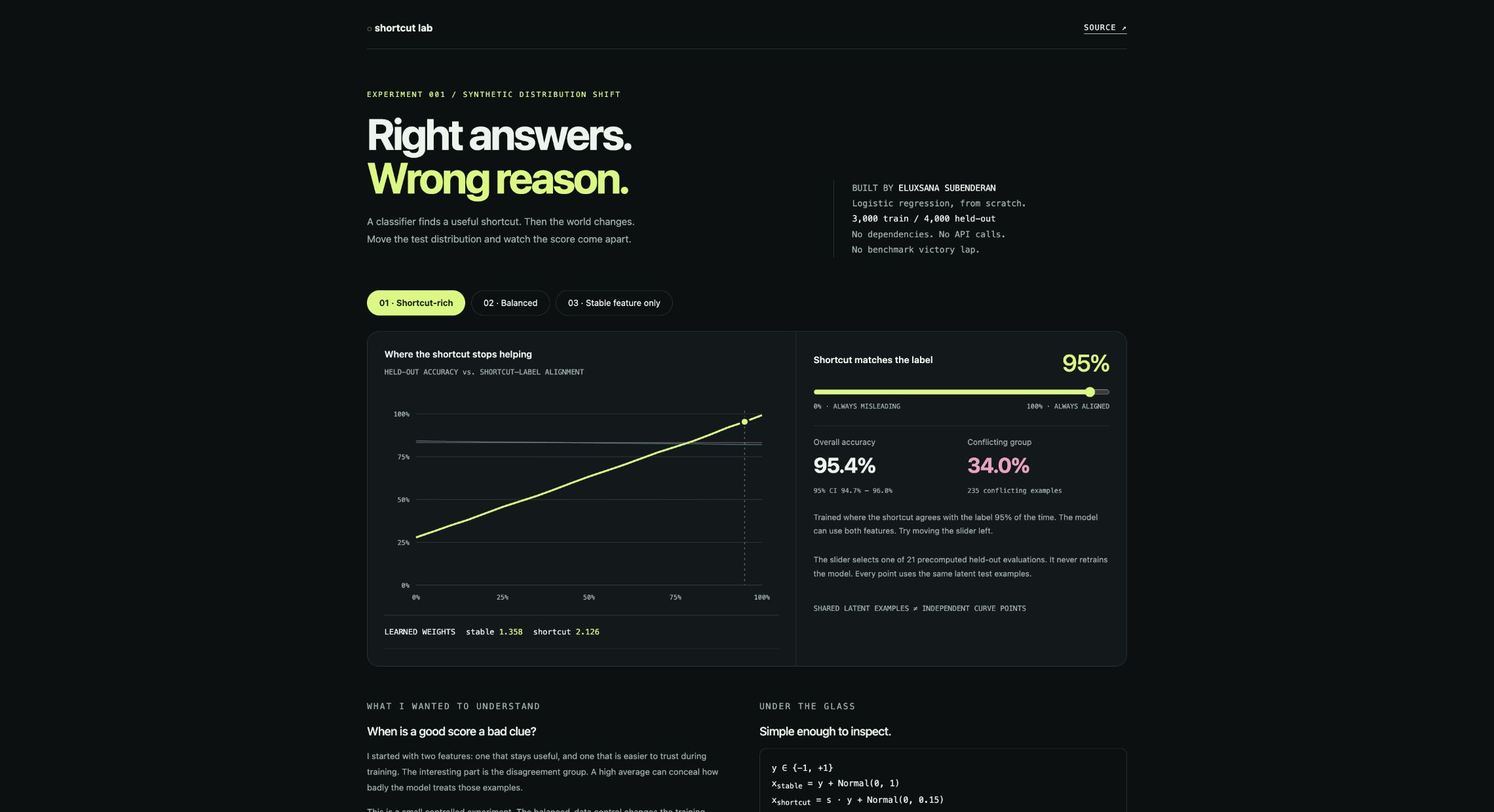
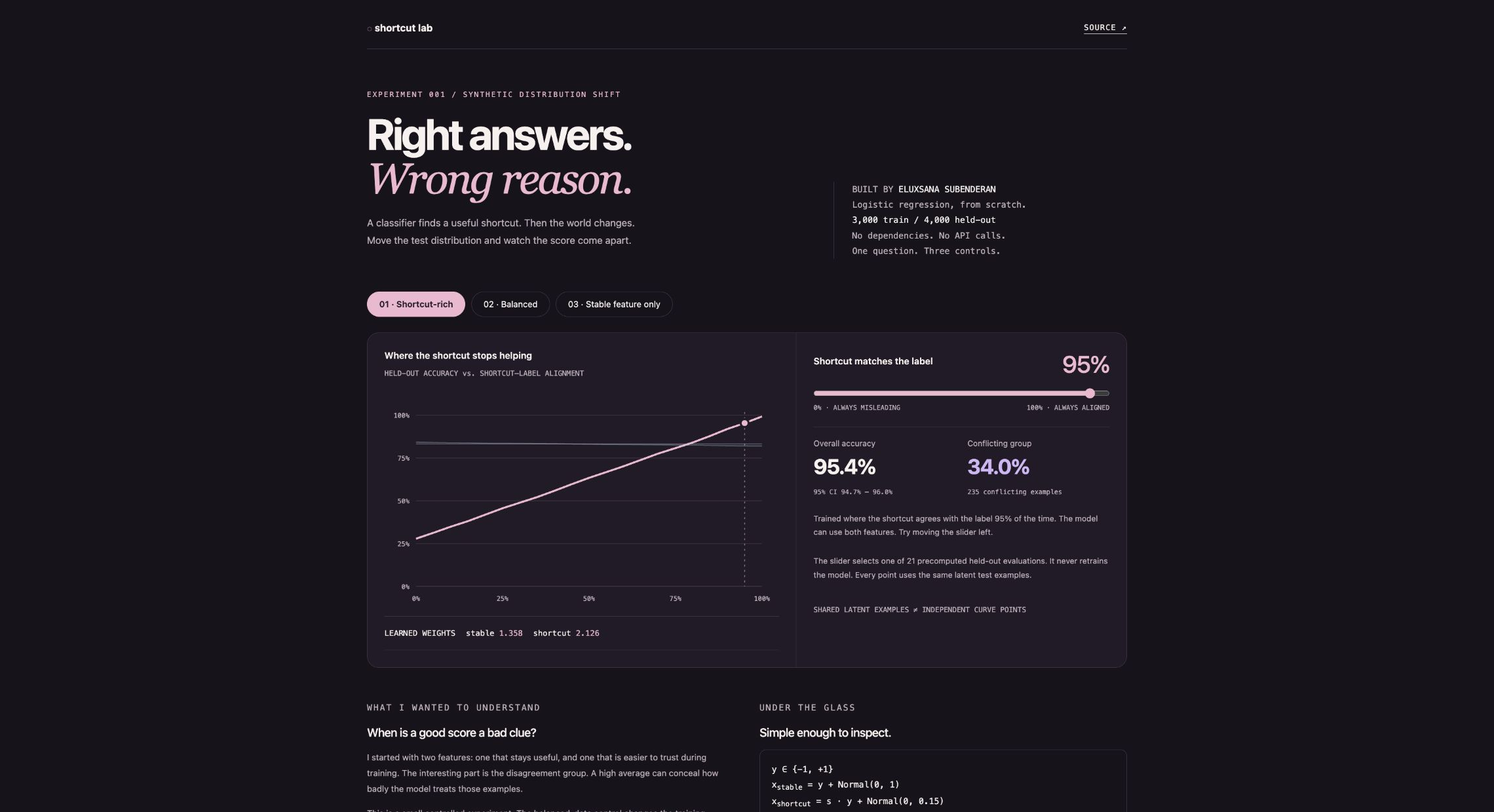
Refine the lab with plum, rose and mint accents

diff --git a/report.html b/report.html
@@ -2,13 +2,13 @@
 <html lang="en"><head><meta charset="utf-8"><meta name="viewport" content="width=device-width,initial-scale=1">
 <meta name="color-scheme" content="dark light"><title>Shortcut Lab · Eluxsana</title>
 <style>
-:root{--bg:#0b1011;--panel:#11191b;--text:#ecf3ed;--muted:#9eb1aa;--line:#2b3b37;--acid:#d3f970;--pink:#f6a0c2;--cyan:#76d8df;font-family:system-ui,-apple-system,sans-serif;color-scheme:dark;background:var(--bg);color:var(--text)}
-*{box-sizing:border-box}body{margin:0}main{max-width:1240px;margin:auto;padding:32px 40px 60px}nav{display:flex;justify-content:space-between;align-items:center;border-bottom:1px solid var(--line);padding-bottom:22px}a{color:inherit;text-underline-offset:5px}nav a,.mono{font:12px/1.6 ui-monospace,monospace;letter-spacing:1px}.brand{font-size:15px;font-weight:700}.brand b{color:var(--acid)}.hero{display:grid;grid-template-columns:1.5fr 1fr;gap:40px;padding:52px 0 38px;align-items:end}.eyebrow{font:11px ui-monospace,monospace;letter-spacing:2px;color:var(--acid);text-transform:uppercase}h1{font-size:clamp(36px,5.4vw,66px);line-height:1.02;letter-spacing:-3px;margin:20px 0}h1 em{font-style:normal;color:var(--acid)}.intro{max-width:560px;color:var(--muted);font-size:15px;line-height:1.75}.aside{border-left:1px solid var(--line);padding-left:28px;font:13px/1.8 ui-monospace,monospace;color:var(--muted)}.aside span{color:var(--text)}.toolbar{display:flex;gap:9px;flex-wrap:wrap;margin:12px 0 24px}button{border:1px solid var(--line);border-radius:30px;padding:11px 18px;font:13px system-ui;color:var(--text);background:transparent;cursor:pointer}button[aria-pressed=true]{background:var(--acid);color:#121b0e;border-color:var(--acid);font-weight:650}button:focus-visible,input:focus-visible{outline:3px solid var(--pink);outline-offset:4px}.board{display:grid;grid-template-columns:1.3fr 1fr;border:1px solid var(--line);border-radius:18px;overflow:hidden;background:var(--panel)}.plot{padding:26px;border-right:1px solid var(--line)}.title{font-size:14px;margin:0 0 8px;font-weight:600}.caption{font:11px/1.7 ui-monospace,monospace;color:var(--muted)}#chart{width:100%;display:block;margin-top:14px;overflow:visible}.controls{padding:26px;display:flex;flex-direction:column;gap:23px}.dial{display:flex;justify-content:space-between;gap:16px;align-items:center}.dial strong{font-size:36px;font-weight:500;letter-spacing:-1px;color:var(--acid)}input{width:100%;accent-color:var(--acid);margin:16px 0 8px;cursor:pointer}.endpoints{display:flex;justify-content:space-between;color:var(--muted);font:10px ui-monospace,monospace}.stats{display:grid;grid-template-columns:1fr 1fr;gap:18px;padding-top:18px;border-top:1px solid var(--line)}.stat span{font-size:12px;color:var(--muted);display:block}.stat strong{display:block;font-size:32px;letter-spacing:-1px;margin:9px 0}.stat small{font:10px ui-monospace,monospace;color:var(--muted)}#conflict{color:var(--pink)}.note{color:var(--muted);font-size:12px;line-height:1.75;margin:0}.weights{display:flex;align-items:center;gap:16px;padding:16px 0;border-top:1px solid var(--line);border-bottom:1px solid var(--line);font:12px/1.6 ui-monospace,monospace}.weights strong{color:var(--acid);font-weight:500}.lower{display:grid;grid-template-columns:1fr 1fr;gap:38px;margin-top:36px}.lower h2{font-size:18px;font-weight:500;letter-spacing:-.5px}.lower p,.lower li{font-size:13px;line-height:1.85;color:var(--muted)}.lower ul{padding-left:18px}.equation{font:13px/1.8 ui-monospace,monospace;color:var(--text);padding:18px;border:1px solid var(--line);border-radius:10px}details{border-top:1px solid var(--line);margin-top:32px;padding-top:20px}summary{cursor:pointer;font-size:13px}table{width:100%;border-collapse:collapse;font:12px/1.6 ui-monospace,monospace;margin-top:20px}th,td{padding:12px 5px;text-align:left;border-bottom:1px solid var(--line)}footer{display:flex;justify-content:space-between;gap:20px;flex-wrap:wrap;border-top:1px solid var(--line);margin-top:42px;padding-top:20px;color:var(--muted);font:11px/1.7 ui-monospace,monospace}code{overflow-wrap:anywhere}.scroll{overflow:auto}svg text{font-family:ui-monospace,monospace}
+:root{--bg:#17131b;--panel:#211b28;--text:#f7f0ee;--muted:#c1b0bd;--line:#443445;--acid:#f2b8d0;--pink:#d1b6f6;--cyan:#9bd8cd;font-family:system-ui,-apple-system,sans-serif;color-scheme:dark;background:var(--bg);color:var(--text)}
+*{box-sizing:border-box}body{margin:0}main{max-width:1240px;margin:auto;padding:32px 40px 60px}nav{display:flex;justify-content:space-between;align-items:center;border-bottom:1px solid var(--line);padding-bottom:22px}a{color:inherit;text-underline-offset:5px}nav a,.mono{font:12px/1.6 ui-monospace,monospace;letter-spacing:1px}.brand{font-size:15px;font-weight:700}.brand b{color:var(--acid)}.hero{display:grid;grid-template-columns:1.5fr 1fr;gap:40px;padding:52px 0 38px;align-items:end}.eyebrow{font:11px ui-monospace,monospace;letter-spacing:2px;color:var(--acid);text-transform:uppercase}h1{font-size:clamp(36px,5.4vw,66px);line-height:1.02;letter-spacing:-3px;margin:20px 0}h1 em{font-family:Georgia,serif;font-style:italic;font-weight:500;color:var(--acid)}.intro{max-width:560px;color:var(--muted);font-size:15px;line-height:1.75}.aside{border-left:1px solid var(--line);padding-left:28px;font:13px/1.8 ui-monospace,monospace;color:var(--muted)}.aside span{color:var(--text)}.toolbar{display:flex;gap:9px;flex-wrap:wrap;margin:12px 0 24px}button{border:1px solid var(--line);border-radius:30px;padding:11px 18px;font:13px system-ui;color:var(--text);background:transparent;cursor:pointer}button[aria-pressed=true]{background:var(--acid);color:#291b2a;border-color:var(--acid);font-weight:650}button:focus-visible,input:focus-visible{outline:3px solid var(--pink);outline-offset:4px}.board{display:grid;grid-template-columns:1.3fr 1fr;border:1px solid var(--line);border-radius:18px;overflow:hidden;background:var(--panel)}.plot{padding:26px;border-right:1px solid var(--line)}.title{font-size:14px;margin:0 0 8px;font-weight:600}.caption{font:11px/1.7 ui-monospace,monospace;color:var(--muted)}#chart{width:100%;display:block;margin-top:14px;overflow:visible}.controls{padding:26px;display:flex;flex-direction:column;gap:23px}.dial{display:flex;justify-content:space-between;gap:16px;align-items:center}.dial strong{font-size:36px;font-weight:500;letter-spacing:-1px;color:var(--acid)}input{width:100%;accent-color:var(--acid);margin:16px 0 8px;cursor:pointer}.endpoints{display:flex;justify-content:space-between;color:var(--muted);font:10px ui-monospace,monospace}.stats{display:grid;grid-template-columns:1fr 1fr;gap:18px;padding-top:18px;border-top:1px solid var(--line)}.stat span{font-size:12px;color:var(--muted);display:block}.stat strong{display:block;font-size:32px;letter-spacing:-1px;margin:9px 0}.stat small{font:10px ui-monospace,monospace;color:var(--muted)}#conflict{color:var(--pink)}.note{color:var(--muted);font-size:12px;line-height:1.75;margin:0}.weights{display:flex;align-items:center;gap:16px;padding:16px 0;border-top:1px solid var(--line);border-bottom:1px solid var(--line);font:12px/1.6 ui-monospace,monospace}.weights strong{color:var(--acid);font-weight:500}.lower{display:grid;grid-template-columns:1fr 1fr;gap:38px;margin-top:36px}.lower h2{font-size:18px;font-weight:500;letter-spacing:-.5px}.lower p,.lower li{font-size:13px;line-height:1.85;color:var(--muted)}.lower ul{padding-left:18px}.equation{font:13px/1.8 ui-monospace,monospace;color:var(--text);padding:18px;border:1px solid var(--line);border-radius:10px}details{border-top:1px solid var(--line);margin-top:32px;padding-top:20px}summary{cursor:pointer;font-size:13px}table{width:100%;border-collapse:collapse;font:12px/1.6 ui-monospace,monospace;margin-top:20px}th,td{padding:12px 5px;text-align:left;border-bottom:1px solid var(--line)}footer{display:flex;justify-content:space-between;gap:20px;flex-wrap:wrap;border-top:1px solid var(--line);margin-top:42px;padding-top:20px;color:var(--muted);font:11px/1.7 ui-monospace,monospace}code{overflow-wrap:anywhere}.scroll{overflow:auto}svg text{font-family:ui-monospace,monospace}
 @media(max-width:760px){main{padding:22px 20px}.hero,.board,.lower{grid-template-columns:1fr}.hero{padding:30px 0;gap:16px}h1{letter-spacing:-1.8px}.aside{padding-left:16px}.plot{border-right:0;border-bottom:1px solid var(--line)}.controls,.plot{padding:20px}.toolbar button{font-size:12px;padding:9px 12px}.lower{gap:12px}.weights{flex-wrap:wrap}}
 @media(prefers-reduced-motion:no-preference){button{transition:background .15s,color .15s}}
 </style></head><body><main>
 <nav><div class="brand"><b>◌</b> shortcut lab</div><a href="https://github.com/eluxsana/shortcut-lab">SOURCE ↗</a></nav>
-<section class="hero"><div><p class="eyebrow">Experiment 001 / Synthetic distribution shift</p><h1>Right answers.<br><em>Wrong reason.</em></h1><p class="intro">A classifier finds a useful shortcut. Then the world changes.<br>Move the test distribution and watch the score come apart.</p></div><div class="aside">BUILT BY <span>ELUXSANA SUBENDERAN</span><br>Logistic regression, from scratch.<br><span id="sample-size">3,000 train / 4,000 held-out</span><br>No dependencies. No API calls.<br>No benchmark victory lap.</div></section>
+<section class="hero"><div><p class="eyebrow">Experiment 001 / Synthetic distribution shift</p><h1>Right answers.<br><em>Wrong reason.</em></h1><p class="intro">A classifier finds a useful shortcut. Then the world changes.<br>Move the test distribution and watch the score come apart.</p></div><div class="aside">BUILT BY <span>ELUXSANA SUBENDERAN</span><br>Logistic regression, from scratch.<br><span id="sample-size">3,000 train / 4,000 held-out</span><br>No dependencies. No API calls.<br>One question. Three controls.</div></section>
 <div class="toolbar" role="group" aria-label="Choose training strategy"><button data-model="erm" aria-pressed="true">01 · Shortcut-rich</button><button data-model="balanced" aria-pressed="false">02 · Balanced</button><button data-model="stable" aria-pressed="false">03 · Stable feature only</button></div>
 <section class="board" aria-label="Distribution shift experiment"><div class="plot"><h2 class="title">Where the shortcut stops helping</h2><p class="caption">HELD-OUT ACCURACY vs. SHORTCUT–LABEL ALIGNMENT</p><svg id="chart" viewBox="0 0 600 345" role="img" aria-label="Accuracy curves across test distributions"><title>Held-out accuracy across shortcut alignment levels</title></svg><div class="weights"><span>LEARNED WEIGHTS</span><span>stable <strong id="stable-weight"></strong></span><span>shortcut <strong id="shortcut-weight"></strong></span></div></div>
 <div class="controls"><div><div class="dial"><label for="alignment" class="title">Shortcut matches the label</label><strong id="alignment-label">95%</strong></div><input id="alignment" type="range" min="0" max="20" value="19" step="1" aria-describedby="slider-note"><div class="endpoints"><span>0% · ALWAYS MISLEADING</span><span>100% · ALWAYS ALIGNED</span></div></div><div class="stats" aria-live="polite"><div class="stat"><span>Overall accuracy</span><strong id="accuracy"></strong><small id="interval"></small></div><div class="stat"><span>Conflicting group</span><strong id="conflict"></strong><small id="group-size"></small></div></div><p id="model-note" class="note"></p><p id="slider-note" class="note">The slider selects one of 21 precomputed held-out evaluations. It never retrains the model. Every point uses the same latent test examples.</p><p class="caption">SHARED LATENT EXAMPLES ≠ INDEPENDENT CURVE POINTS</p></div></section>
@@ -19,7 +19,7 @@
 <script id="results" type="application/json">/*__RESULTS__*/</script><script>
 'use strict';
 const data=JSON.parse(document.getElementById('results').textContent);
-const colors={erm:'#d3f970',balanced:'#76d8df',stable:'#f6a0c2'};
+const colors={erm:'#f2b8d0',balanced:'#9bd8cd',stable:'#d1b6f6'};
 const notes={erm:'Trained where the shortcut agrees with the label 95% of the time. The model can use both features. Try moving the slider left.',balanced:'Trained where alignment is 50%. Both features remain available, but the shortcut carries no systematic label signal in expectation.',stable:'The shortcut is explicitly removed. This control uses privileged knowledge of which feature is stable; it is not learned invariance.'};
 let selected='erm';const slider=document.getElementById('alignment');
 const pct=v=>v===null?'—':(100*v).toFixed(1)+'%';
@@ -35,11 +35,11 @@ document.getElementById('model-note').textContent=notes[selected];
 document.getElementById('stable-weight').textContent=model.weights[0].toFixed(3);
 document.getElementById('shortcut-weight').textContent=model.weights[1].toFixed(3);
 let svg='<title>Accuracy across test shortcut alignment, selected '+Math.round(point.alignment*100)+' percent</title>';
-for(let t=0;t<=1;t+=.25){svg+=`<line x1="48" x2="574" y1="${y(t)}" y2="${y(t)}" stroke="#2b3b37"/><text x="38" y="${y(t)+4}" text-anchor="end" fill="#9eb1aa" font-size="10">${Math.round(t*100)}%</text><text x="${x(t)}" y="322" text-anchor="middle" fill="#9eb1aa" font-size="10">${Math.round(t*100)}%</text>`;}
-svg+=`<line x1="${x(point.alignment)}" x2="${x(point.alignment)}" y1="35" y2="300" stroke="#71867d" stroke-dasharray="3 5"/>`;
+for(let t=0;t<=1;t+=.25){svg+=`<line x1="48" x2="574" y1="${y(t)}" y2="${y(t)}" stroke="#443445"/><text x="38" y="${y(t)+4}" text-anchor="end" fill="#c1b0bd" font-size="10">${Math.round(t*100)}%</text><text x="${x(t)}" y="322" text-anchor="middle" fill="#c1b0bd" font-size="10">${Math.round(t*100)}%</text>`;}
+svg+=`<line x1="${x(point.alignment)}" x2="${x(point.alignment)}" y1="35" y2="300" stroke="#a58b9e" stroke-dasharray="3 5"/>`;
 for(const m of data.models){const active=m.key===selected;svg+=`<path d="${m.curve.map((p,j)=>(j?'L':'M')+x(p.alignment)+','+y(p.overall.accuracy)).join(' ')}" fill="none" stroke="${colors[m.key]}" stroke-width="${active?3:1.5}" opacity="${active?1:.38}"/>`;}
 const low=point.overall.wilson95[0],high=point.overall.wilson95[1],xx=x(point.alignment);
-svg+=`<line x1="${xx}" x2="${xx}" y1="${y(low)}" y2="${y(high)}" stroke="${colors[selected]}" stroke-width="2"/><circle cx="${xx}" cy="${y(point.overall.accuracy)}" r="6" fill="${colors[selected]}" stroke="#11191b" stroke-width="3"/>`;
+svg+=`<line x1="${xx}" x2="${xx}" y1="${y(low)}" y2="${y(high)}" stroke="${colors[selected]}" stroke-width="2"/><circle cx="${xx}" cy="${y(point.overall.accuracy)}" r="6" fill="${colors[selected]}" stroke="#211b28" stroke-width="3"/>`;
 document.getElementById('chart').innerHTML=svg;
 document.getElementById('comparison').innerHTML=data.models.map(m=>{const p=m.curve[i];return `<tr><td>${m.label}</td><td>${pct(p.overall.accuracy)}</td><td>${pct(p.aligned.accuracy)}</td><td>${pct(p.conflicting.accuracy)}</td></tr>`}).join('');
 document.querySelectorAll('[data-model]').forEach(b=>b.setAttribute('aria-pressed',String(b.dataset.model===selected)));

diff --git a/index.html b/index.html
@@ -2,13 +2,13 @@
 <html lang="en"><head><meta charset="utf-8"><meta name="viewport" content="width=device-width,initial-scale=1">
 <meta name="color-scheme" content="dark light"><title>Shortcut Lab · Eluxsana</title>
 <style>
-:root{--bg:#0b1011;--panel:#11191b;--text:#ecf3ed;--muted:#9eb1aa;--line:#2b3b37;--acid:#d3f970;--pink:#f6a0c2;--cyan:#76d8df;font-family:system-ui,-apple-system,sans-serif;color-scheme:dark;background:var(--bg);color:var(--text)}
-*{box-sizing:border-box}body{margin:0}main{max-width:1240px;margin:auto;padding:32px 40px 60px}nav{display:flex;justify-content:space-between;align-items:center;border-bottom:1px solid var(--line);padding-bottom:22px}a{color:inherit;text-underline-offset:5px}nav a,.mono{font:12px/1.6 ui-monospace,monospace;letter-spacing:1px}.brand{font-size:15px;font-weight:700}.brand b{color:var(--acid)}.hero{display:grid;grid-template-columns:1.5fr 1fr;gap:40px;padding:52px 0 38px;align-items:end}.eyebrow{font:11px ui-monospace,monospace;letter-spacing:2px;color:var(--acid);text-transform:uppercase}h1{font-size:clamp(36px,5.4vw,66px);line-height:1.02;letter-spacing:-3px;margin:20px 0}h1 em{font-style:normal;color:var(--acid)}.intro{max-width:560px;color:var(--muted);font-size:15px;line-height:1.75}.aside{border-left:1px solid var(--line);padding-left:28px;font:13px/1.8 ui-monospace,monospace;color:var(--muted)}.aside span{color:var(--text)}.toolbar{display:flex;gap:9px;flex-wrap:wrap;margin:12px 0 24px}button{border:1px solid var(--line);border-radius:30px;padding:11px 18px;font:13px system-ui;color:var(--text);background:transparent;cursor:pointer}button[aria-pressed=true]{background:var(--acid);color:#121b0e;border-color:var(--acid);font-weight:650}button:focus-visible,input:focus-visible{outline:3px solid var(--pink);outline-offset:4px}.board{display:grid;grid-template-columns:1.3fr 1fr;border:1px solid var(--line);border-radius:18px;overflow:hidden;background:var(--panel)}.plot{padding:26px;border-right:1px solid var(--line)}.title{font-size:14px;margin:0 0 8px;font-weight:600}.caption{font:11px/1.7 ui-monospace,monospace;color:var(--muted)}#chart{width:100%;display:block;margin-top:14px;overflow:visible}.controls{padding:26px;display:flex;flex-direction:column;gap:23px}.dial{display:flex;justify-content:space-between;gap:16px;align-items:center}.dial strong{font-size:36px;font-weight:500;letter-spacing:-1px;color:var(--acid)}input{width:100%;accent-color:var(--acid);margin:16px 0 8px;cursor:pointer}.endpoints{display:flex;justify-content:space-between;color:var(--muted);font:10px ui-monospace,monospace}.stats{display:grid;grid-template-columns:1fr 1fr;gap:18px;padding-top:18px;border-top:1px solid var(--line)}.stat span{font-size:12px;color:var(--muted);display:block}.stat strong{display:block;font-size:32px;letter-spacing:-1px;margin:9px 0}.stat small{font:10px ui-monospace,monospace;color:var(--muted)}#conflict{color:var(--pink)}.note{color:var(--muted);font-size:12px;line-height:1.75;margin:0}.weights{display:flex;align-items:center;gap:16px;padding:16px 0;border-top:1px solid var(--line);border-bottom:1px solid var(--line);font:12px/1.6 ui-monospace,monospace}.weights strong{color:var(--acid);font-weight:500}.lower{display:grid;grid-template-columns:1fr 1fr;gap:38px;margin-top:36px}.lower h2{font-size:18px;font-weight:500;letter-spacing:-.5px}.lower p,.lower li{font-size:13px;line-height:1.85;color:var(--muted)}.lower ul{padding-left:18px}.equation{font:13px/1.8 ui-monospace,monospace;color:var(--text);padding:18px;border:1px solid var(--line);border-radius:10px}details{border-top:1px solid var(--line);margin-top:32px;padding-top:20px}summary{cursor:pointer;font-size:13px}table{width:100%;border-collapse:collapse;font:12px/1.6 ui-monospace,monospace;margin-top:20px}th,td{padding:12px 5px;text-align:left;border-bottom:1px solid var(--line)}footer{display:flex;justify-content:space-between;gap:20px;flex-wrap:wrap;border-top:1px solid var(--line);margin-top:42px;padding-top:20px;color:var(--muted);font:11px/1.7 ui-monospace,monospace}code{overflow-wrap:anywhere}.scroll{overflow:auto}svg text{font-family:ui-monospace,monospace}
+:root{--bg:#17131b;--panel:#211b28;--text:#f7f0ee;--muted:#c1b0bd;--line:#443445;--acid:#f2b8d0;--pink:#d1b6f6;--cyan:#9bd8cd;font-family:system-ui,-apple-system,sans-serif;color-scheme:dark;background:var(--bg);color:var(--text)}
+*{box-sizing:border-box}body{margin:0}main{max-width:1240px;margin:auto;padding:32px 40px 60px}nav{display:flex;justify-content:space-between;align-items:center;border-bottom:1px solid var(--line);padding-bottom:22px}a{color:inherit;text-underline-offset:5px}nav a,.mono{font:12px/1.6 ui-monospace,monospace;letter-spacing:1px}.brand{font-size:15px;font-weight:700}.brand b{color:var(--acid)}.hero{display:grid;grid-template-columns:1.5fr 1fr;gap:40px;padding:52px 0 38px;align-items:end}.eyebrow{font:11px ui-monospace,monospace;letter-spacing:2px;color:var(--acid);text-transform:uppercase}h1{font-size:clamp(36px,5.4vw,66px);line-height:1.02;letter-spacing:-3px;margin:20px 0}h1 em{font-family:Georgia,serif;font-style:italic;font-weight:500;color:var(--acid)}.intro{max-width:560px;color:var(--muted);font-size:15px;line-height:1.75}.aside{border-left:1px solid var(--line);padding-left:28px;font:13px/1.8 ui-monospace,monospace;color:var(--muted)}.aside span{color:var(--text)}.toolbar{display:flex;gap:9px;flex-wrap:wrap;margin:12px 0 24px}button{border:1px solid var(--line);border-radius:30px;padding:11px 18px;font:13px system-ui;color:var(--text);background:transparent;cursor:pointer}button[aria-pressed=true]{background:var(--acid);color:#291b2a;border-color:var(--acid);font-weight:650}button:focus-visible,input:focus-visible{outline:3px solid var(--pink);outline-offset:4px}.board{display:grid;grid-template-columns:1.3fr 1fr;border:1px solid var(--line);border-radius:18px;overflow:hidden;background:var(--panel)}.plot{padding:26px;border-right:1px solid var(--line)}.title{font-size:14px;margin:0 0 8px;font-weight:600}.caption{font:11px/1.7 ui-monospace,monospace;color:var(--muted)}#chart{width:100%;display:block;margin-top:14px;overflow:visible}.controls{padding:26px;display:flex;flex-direction:column;gap:23px}.dial{display:flex;justify-content:space-between;gap:16px;align-items:center}.dial strong{font-size:36px;font-weight:500;letter-spacing:-1px;color:var(--acid)}input{width:100%;accent-color:var(--acid);margin:16px 0 8px;cursor:pointer}.endpoints{display:flex;justify-content:space-between;color:var(--muted);font:10px ui-monospace,monospace}.stats{display:grid;grid-template-columns:1fr 1fr;gap:18px;padding-top:18px;border-top:1px solid var(--line)}.stat span{font-size:12px;color:var(--muted);display:block}.stat strong{display:block;font-size:32px;letter-spacing:-1px;margin:9px 0}.stat small{font:10px ui-monospace,monospace;color:var(--muted)}#conflict{color:var(--pink)}.note{color:var(--muted);font-size:12px;line-height:1.75;margin:0}.weights{display:flex;align-items:center;gap:16px;padding:16px 0;border-top:1px solid var(--line);border-bottom:1px solid var(--line);font:12px/1.6 ui-monospace,monospace}.weights strong{color:var(--acid);font-weight:500}.lower{display:grid;grid-template-columns:1fr 1fr;gap:38px;margin-top:36px}.lower h2{font-size:18px;font-weight:500;letter-spacing:-.5px}.lower p,.lower li{font-size:13px;line-height:1.85;color:var(--muted)}.lower ul{padding-left:18px}.equation{font:13px/1.8 ui-monospace,monospace;color:var(--text);padding:18px;border:1px solid var(--line);border-radius:10px}details{border-top:1px solid var(--line);margin-top:32px;padding-top:20px}summary{cursor:pointer;font-size:13px}table{width:100%;border-collapse:collapse;font:12px/1.6 ui-monospace,monospace;margin-top:20px}th,td{padding:12px 5px;text-align:left;border-bottom:1px solid var(--line)}footer{display:flex;justify-content:space-between;gap:20px;flex-wrap:wrap;border-top:1px solid var(--line);margin-top:42px;padding-top:20px;color:var(--muted);font:11px/1.7 ui-monospace,monospace}code{overflow-wrap:anywhere}.scroll{overflow:auto}svg text{font-family:ui-monospace,monospace}
 @media(max-width:760px){main{padding:22px 20px}.hero,.board,.lower{grid-template-columns:1fr}.hero{padding:30px 0;gap:16px}h1{letter-spacing:-1.8px}.aside{padding-left:16px}.plot{border-right:0;border-bottom:1px solid var(--line)}.controls,.plot{padding:20px}.toolbar button{font-size:12px;padding:9px 12px}.lower{gap:12px}.weights{flex-wrap:wrap}}
 @media(prefers-reduced-motion:no-preference){button{transition:background .15s,color .15s}}
 </style></head><body><main>
 <nav><div class="brand"><b>◌</b> shortcut lab</div><a href="https://github.com/eluxsana/shortcut-lab">SOURCE ↗</a></nav>
-<section class="hero"><div><p class="eyebrow">Experiment 001 / Synthetic distribution shift</p><h1>Right answers.<br><em>Wrong reason.</em></h1><p class="intro">A classifier finds a useful shortcut. Then the world changes.<br>Move the test distribution and watch the score come apart.</p></div><div class="aside">BUILT BY <span>ELUXSANA SUBENDERAN</span><br>Logistic regression, from scratch.<br><span id="sample-size">3,000 train / 4,000 held-out</span><br>No dependencies. No API calls.<br>No benchmark victory lap.</div></section>
+<section class="hero"><div><p class="eyebrow">Experiment 001 / Synthetic distribution shift</p><h1>Right answers.<br><em>Wrong reason.</em></h1><p class="intro">A classifier finds a useful shortcut. Then the world changes.<br>Move the test distribution and watch the score come apart.</p></div><div class="aside">BUILT BY <span>ELUXSANA SUBENDERAN</span><br>Logistic regression, from scratch.<br><span id="sample-size">3,000 train / 4,000 held-out</span><br>No dependencies. No API calls.<br>One question. Three controls.</div></section>
 <div class="toolbar" role="group" aria-label="Choose training strategy"><button data-model="erm" aria-pressed="true">01 · Shortcut-rich</button><button data-model="balanced" aria-pressed="false">02 · Balanced</button><button data-model="stable" aria-pressed="false">03 · Stable feature only</button></div>
 <section class="board" aria-label="Distribution shift experiment"><div class="plot"><h2 class="title">Where the shortcut stops helping</h2><p class="caption">HELD-OUT ACCURACY vs. SHORTCUT–LABEL ALIGNMENT</p><svg id="chart" viewBox="0 0 600 345" role="img" aria-label="Accuracy curves across test distributions"><title>Held-out accuracy across shortcut alignment levels</title></svg><div class="weights"><span>LEARNED WEIGHTS</span><span>stable <strong id="stable-weight"></strong></span><span>shortcut <strong id="shortcut-weight"></strong></span></div></div>
 <div class="controls"><div><div class="dial"><label for="alignment" class="title">Shortcut matches the label</label><strong id="alignment-label">95%</strong></div><input id="alignment" type="range" min="0" max="20" value="19" step="1" aria-describedby="slider-note"><div class="endpoints"><span>0% · ALWAYS MISLEADING</span><span>100% · ALWAYS ALIGNED</span></div></div><div class="stats" aria-live="polite"><div class="stat"><span>Overall accuracy</span><strong id="accuracy"></strong><small id="interval"></small></div><div class="stat"><span>Conflicting group</span><strong id="conflict"></strong><small id="group-size"></small></div></div><p id="model-note" class="note"></p><p id="slider-note" class="note">The slider selects one of 21 precomputed held-out evaluations. It never retrains the model. Every point uses the same latent test examples.</p><p class="caption">SHARED LATENT EXAMPLES ≠ INDEPENDENT CURVE POINTS</p></div></section>
@@ -2321,7 +2321,7 @@
 }</script><script>
 'use strict';
 const data=JSON.parse(document.getElementById('results').textContent);
-const colors={erm:'#d3f970',balanced:'#76d8df',stable:'#f6a0c2'};
+const colors={erm:'#f2b8d0',balanced:'#9bd8cd',stable:'#d1b6f6'};
 const notes={erm:'Trained where the shortcut agrees with the label 95% of the time. The model can use both features. Try moving the slider left.',balanced:'Trained where alignment is 50%. Both features remain available, but the shortcut carries no systematic label signal in expectation.',stable:'The shortcut is explicitly removed. This control uses privileged knowledge of which feature is stable; it is not learned invariance.'};
 let selected='erm';const slider=document.getElementById('alignment');
 const pct=v=>v===null?'—':(100*v).toFixed(1)+'%';
@@ -2337,11 +2337,11 @@ document.getElementById('model-note').textContent=notes[selected];
 document.getElementById('stable-weight').textContent=model.weights[0].toFixed(3);
 document.getElementById('shortcut-weight').textContent=model.weights[1].toFixed(3);
 let svg='<title>Accuracy across test shortcut alignment, selected '+Math.round(point.alignment*100)+' percent</title>';
-for(let t=0;t<=1;t+=.25){svg+=`<line x1="48" x2="574" y1="${y(t)}" y2="${y(t)}" stroke="#2b3b37"/><text x="38" y="${y(t)+4}" text-anchor="end" fill="#9eb1aa" font-size="10">${Math.round(t*100)}%</text><text x="${x(t)}" y="322" text-anchor="middle" fill="#9eb1aa" font-size="10">${Math.round(t*100)}%</text>`;}
-svg+=`<line x1="${x(point.alignment)}" x2="${x(point.alignment)}" y1="35" y2="300" stroke="#71867d" stroke-dasharray="3 5"/>`;
+for(let t=0;t<=1;t+=.25){svg+=`<line x1="48" x2="574" y1="${y(t)}" y2="${y(t)}" stroke="#443445"/><text x="38" y="${y(t)+4}" text-anchor="end" fill="#c1b0bd" font-size="10">${Math.round(t*100)}%</text><text x="${x(t)}" y="322" text-anchor="middle" fill="#c1b0bd" font-size="10">${Math.round(t*100)}%</text>`;}
+svg+=`<line x1="${x(point.alignment)}" x2="${x(point.alignment)}" y1="35" y2="300" stroke="#a58b9e" stroke-dasharray="3 5"/>`;
 for(const m of data.models){const active=m.key===selected;svg+=`<path d="${m.curve.map((p,j)=>(j?'L':'M')+x(p.alignment)+','+y(p.overall.accuracy)).join(' ')}" fill="none" stroke="${colors[m.key]}" stroke-width="${active?3:1.5}" opacity="${active?1:.38}"/>`;}
 const low=point.overall.wilson95[0],high=point.overall.wilson95[1],xx=x(point.alignment);
-svg+=`<line x1="${xx}" x2="${xx}" y1="${y(low)}" y2="${y(high)}" stroke="${colors[selected]}" stroke-width="2"/><circle cx="${xx}" cy="${y(point.overall.accuracy)}" r="6" fill="${colors[selected]}" stroke="#11191b" stroke-width="3"/>`;
+svg+=`<line x1="${xx}" x2="${xx}" y1="${y(low)}" y2="${y(high)}" stroke="${colors[selected]}" stroke-width="2"/><circle cx="${xx}" cy="${y(point.overall.accuracy)}" r="6" fill="${colors[selected]}" stroke="#211b28" stroke-width="3"/>`;
 document.getElementById('chart').innerHTML=svg;
 document.getElementById('comparison').innerHTML=data.models.map(m=>{const p=m.curve[i];return `<tr><td>${m.label}</td><td>${pct(p.overall.accuracy)}</td><td>${pct(p.aligned.accuracy)}</td><td>${pct(p.conflicting.accuracy)}</td></tr>`}).join('');
 document.querySelectorAll('[data-model]').forEach(b=>b.setAttribute('aria-pressed',String(b.dataset.model===selected)));
